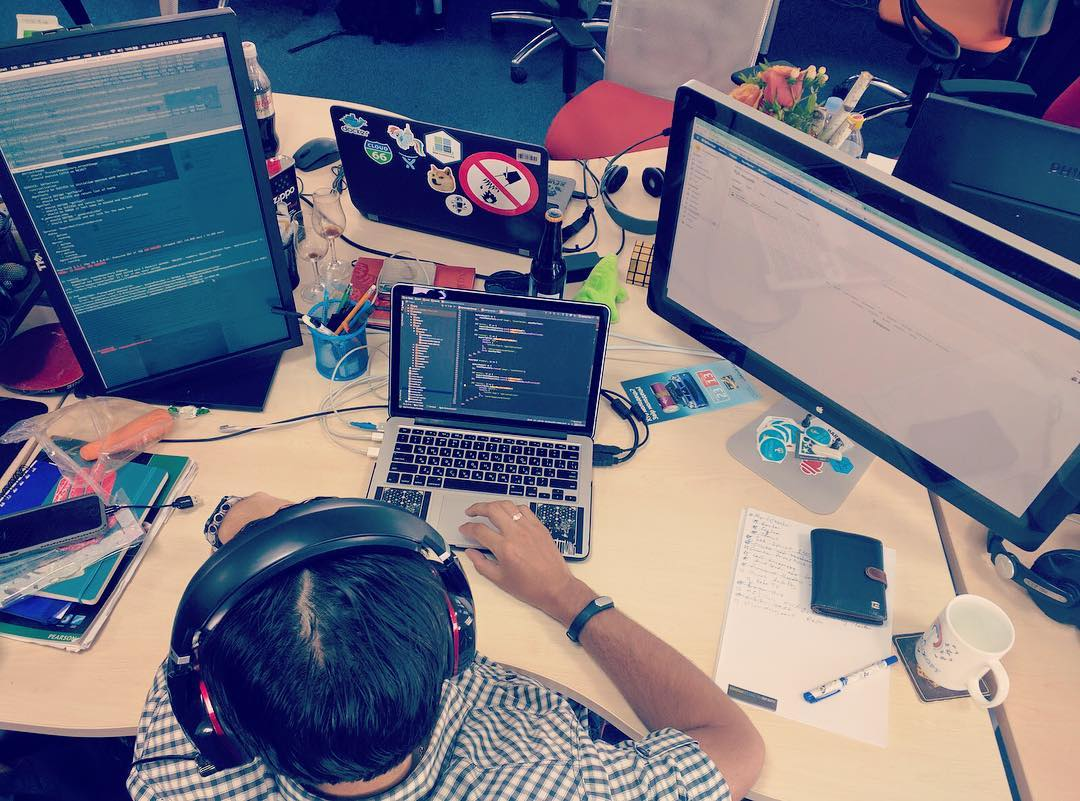
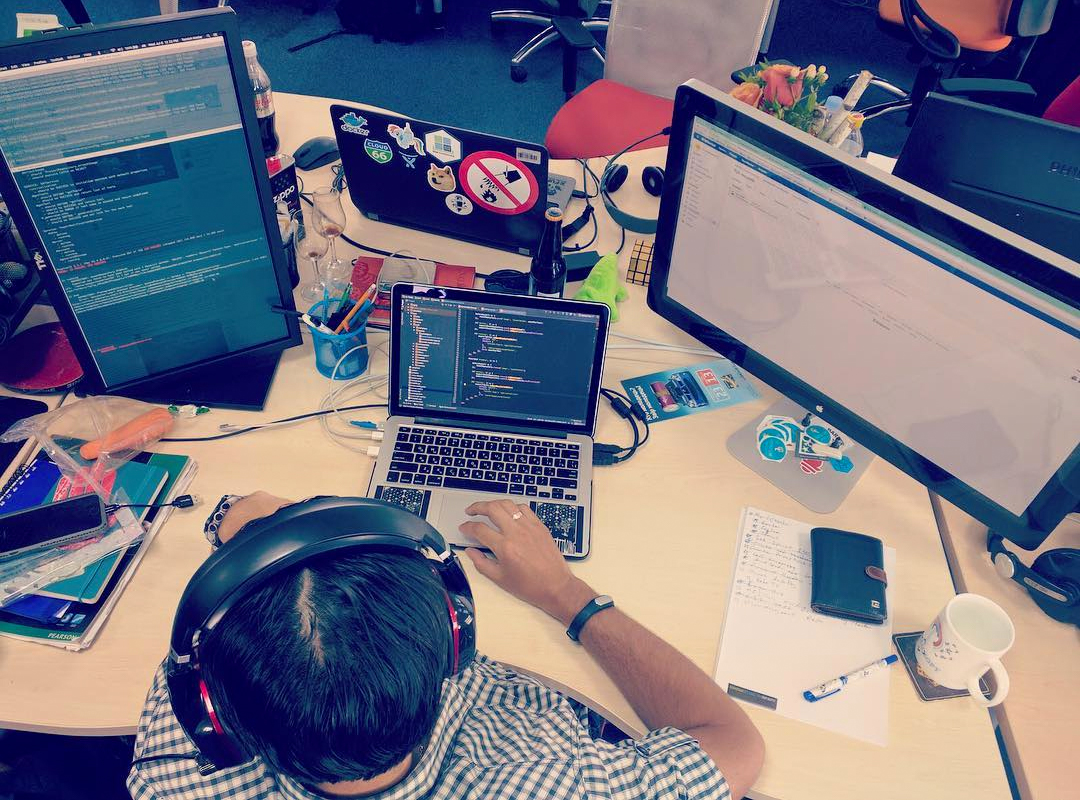
workplace-kantar-2018.jpg

diff --git a/public/index.html b/public/index.html
@@ -64,7 +64,23 @@
 
         <div class="card">
             <h2 class="acenter">&lt;Hello, World!&gt;</h2>
-            <p><img alt="workplace" src="./i/vr-people-workplace-2017-04-14.jpg" width="100%"></p>
+            <p><img id="workplace" alt="workplace" src="./i/vr-people-workplace-2017-04-14.jpg" width="100%"></p>
+            <script>
+                const workplaceEl = document.querySelector('#workplace');
+                const imgs = [
+                    './i/vr-people-workplace-2017-04-14.jpg',
+                    './i/workplace-kantar-2018.jpg'
+                ];
+                workplaceEl.addEventListener('click', () => {
+                    const currentValue = workplaceEl.getAttribute('src');
+                    const currentIndex = imgs.findIndex((value) => value === currentValue);
+                    let newIndex = currentIndex + 1;
+                    if (newIndex >= imgs.length) {
+                        newIndex = 0;
+                    }
+                    workplaceEl.setAttribute('src', imgs[newIndex]);
+                });
+            </script>
             <blockquote>
                 Only the people who take learning, growth and skills development into their own hands will be tomorrow's
                 leaders.

diff --git a/public/i/app.js b/public/i/app.js
@@ -2,15 +2,24 @@
     'use strict';
 
     const loadingEls = document.querySelectorAll('.loading');
+    if (!loadingEls) {
+        return;
+    }
     loadingEls.forEach((el) => {
         el.removeAttribute('hidden');
     });
 
     const loaderEl = document.querySelector('#spinner');
+    if (!loaderEl) {
+        return;
+    }
     loaderEl.setAttribute('hidden', 'true');
 
     const logoEl = document.querySelector('#logo');
     const homeEl = document.querySelector('#home');
+    if (!logoEl || !homeEl) {
+        return;
+    }
     const mouseInEvent = () => {
         logoEl.classList.add('hover');
         homeEl.classList.add('hover');

diff --git a/public/i/service-worker.js b/public/i/service-worker.js
@@ -27,6 +27,7 @@ const FILES_TO_CACHE = [
     '/i/fonts/WeberHandITCStd.woff2',
     // Home
     '/i/vr-people-workplace-2017-04-14.jpg',
+    '/i/workplace-kantar-2018.jpg',
     '/i/n-rosberg_japan-gp_2016_08.jpg',
     // Avatars
     '/i/avatars/eyes-beard.jpg',
